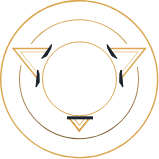
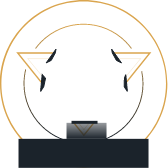
edit gauntlet ui

diff --git a/src/components/Gauntlet.js b/src/components/Gauntlet.js
@@ -46,24 +46,25 @@ const Title = styled.h1`
   text-align: center;
   color: #fff;
   text-transform: uppercase;
+  margin-top: 0px;
 `
 const Icon1 = styled.img`
   position: absolute;
-  width: 54px;
-  height: 54px;
+  width: 64px;
+  height: 64px;
   border-radius: 50px;
   border: 2px solid #daa54e;
-  margin-left: 109px;
-  margin-top: 66px;
+  margin-left: 104px;
+  margin-top: 63px;
 `
 const Icon2 = styled.img`
   position: absolute;
-  width: 54px;
-  height: 54px;
+  width: 64px;
+  height: 64px;
   border-radius: 50px;
   border: 2px solid #daa54e;
-  margin-left: 109px;
-  margin-top: 66px;
+  margin-left: 104px;
+  margin-top: 63px;
   filter: blur(6px);
 `
 const Icon3 = styled.img`
